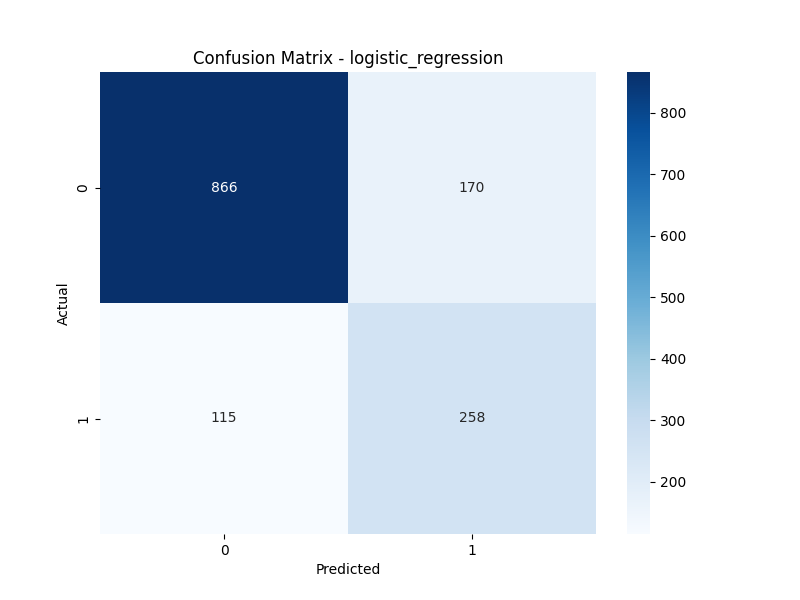
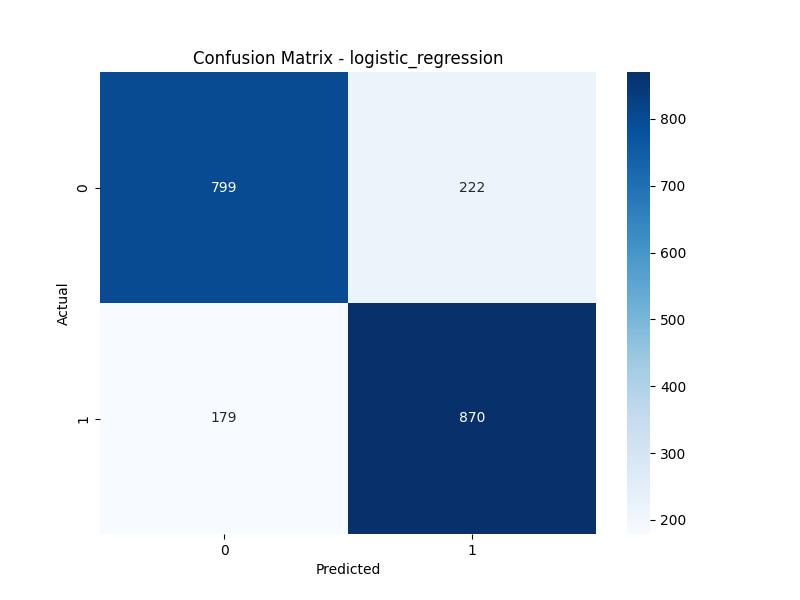
Updated pipeline to remove unnecessary features from encoded dataframe

diff --git a/pipelines/pipeline.py b/pipelines/pipeline.py
@@ -2,6 +2,22 @@ from sklearn.pipeline import Pipeline
 from sklearn.preprocessing import OneHotEncoder, StandardScaler
 from sklearn.compose import ColumnTransformer
 from sklearn.impute import SimpleImputer
+from sklearn.base import BaseEstimator, TransformerMixin
+
+class FeatureSelector(BaseEstimator, TransformerMixin):
+    """
+    Custom transformer to drop specified features from a DataFrame.
+    """
+    def __init__(self, feature_names):
+        self.feature_names = feature_names
+
+    def fit(self, X, y=None):
+        return self
+
+    def transform(self, X):
+        if hasattr(X, 'drop'):
+            return X.drop(columns=self.feature_names, errors='ignore')
+        return X
 
 def build_pipeline(categorical_cols, numerical_cols):
 
@@ -24,5 +40,8 @@ def build_pipeline(categorical_cols, numerical_cols):
         ('cat', cat_pipeline, categorical_cols),
         ('num', num_pipeline, numerical_cols)
     ])
+
+    # Set output to pandas to preserve column names for the next steps
+    full_pipeline.set_output(transform="pandas")
 
     return full_pipeline

diff --git a/pipelines/model_pipeline.py b/pipelines/model_pipeline.py
@@ -1,5 +1,7 @@
+import os
+import json
 from configs.models_config import models
-from pipelines.pipeline import build_pipeline
+from pipelines.pipeline import build_pipeline, FeatureSelector
 from sklearn.pipeline import Pipeline
 
 def build_model_pipelines(cat_cols: list, num_cols: list):
@@ -7,6 +9,17 @@ def build_model_pipelines(cat_cols: list, num_cols: list):
     Creates a dictionary of pipelines for each model in models_config.
     Each pipeline includes preprocessing followed by the estimator.
     """
+    # Use absolute path relative to project root
+    project_root = os.path.dirname(os.path.dirname(os.path.abspath(__file__)))
+    drops_path = os.path.join(project_root, 'configs', 'suggested_drops.json')
+    
+    # Load features to drop
+    if os.path.exists(drops_path):
+        with open(drops_path, 'r') as f:
+            features_to_drop = json.load(f)
+    else:
+        features_to_drop = []
+
     # Get the shared preprocessing pipeline
     preprocessing_pipeline = build_pipeline(categorical_cols=cat_cols, numerical_cols=num_cols)
     
@@ -16,6 +29,7 @@ def build_model_pipelines(cat_cols: list, num_cols: list):
     for model_name, model_instance in models.items():
         pipelines[model_name] = Pipeline(steps=[
             ('prep', preprocessing_pipeline),
+            ('selector', FeatureSelector(features_to_drop)),
             ('model', model_instance)
         ])
 

diff --git a/src/train.py b/src/train.py
@@ -128,8 +128,8 @@ if __name__ == "__main__" :
         
         # Save performance metrics to DataFrame
         performance_df = pd.DataFrame(performance_metrics)
-        performance_df.to_csv(os.path.join(project_root, "outputs", "performance_record.csv"), index=False)
-        print("\nPerformance record saved to outputs/performance_record.csv")
+        performance_df.to_csv(os.path.join(project_root, "outputs", "performance_record_1.csv"), index=False)
+        print("\nPerformance record saved to outputs/performance_record_1.csv")
 
         # Create comparison bar graph
         plt.figure(figsize=(12, 8))
@@ -139,9 +139,9 @@ if __name__ == "__main__" :
         plt.ylim(0, 1)
         plt.legend(bbox_to_anchor=(1.05, 1), loc='upper left')
         plt.tight_layout()
-        plt.savefig(os.path.join(project_root, "outputs", "model_comparison.png"))
+        plt.savefig(os.path.join(project_root, "outputs", "model_comparison_1.png"))
         plt.close()
-        print("Comparison bar graph saved to outputs/model_comparison.png")
+        print("Comparison bar graph saved to outputs/model_comparison_1.png")
 
         # Save the best model
         if best_model is not None: